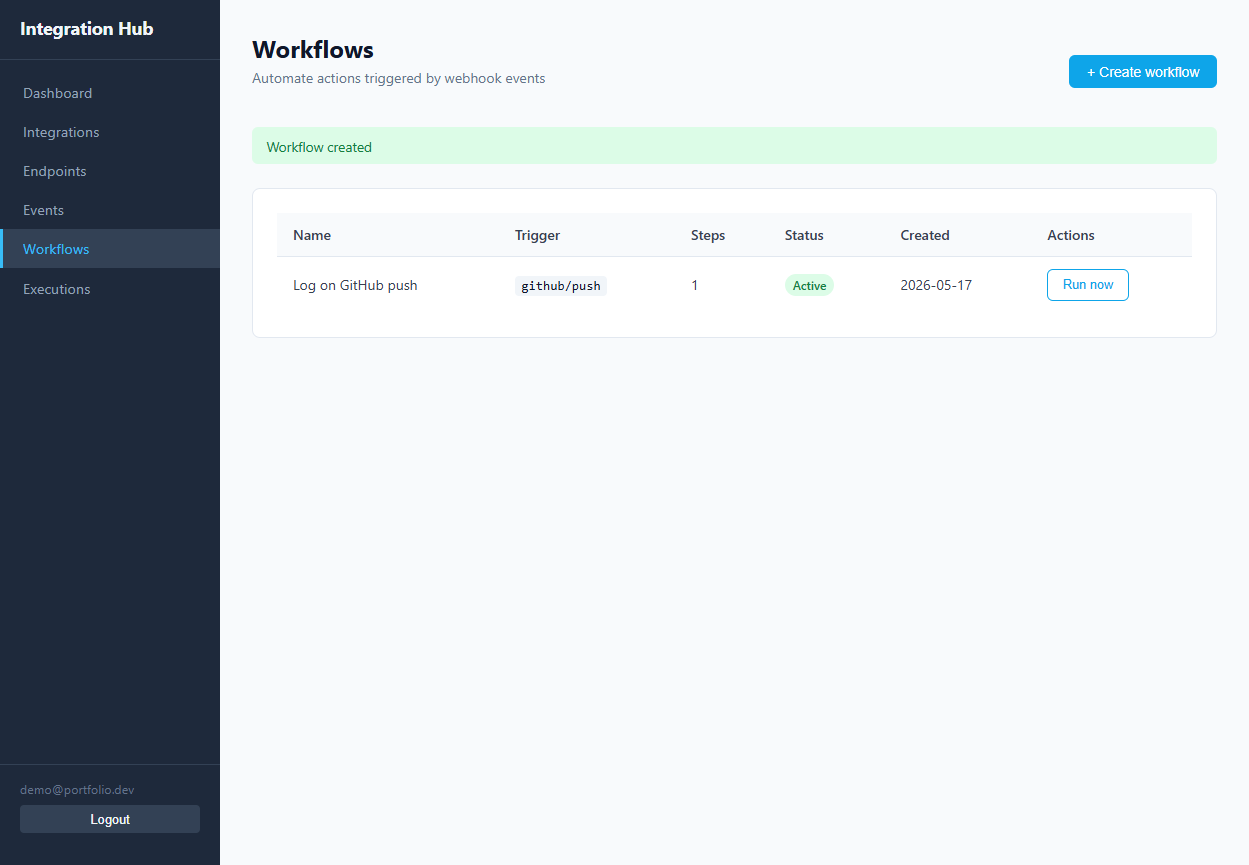
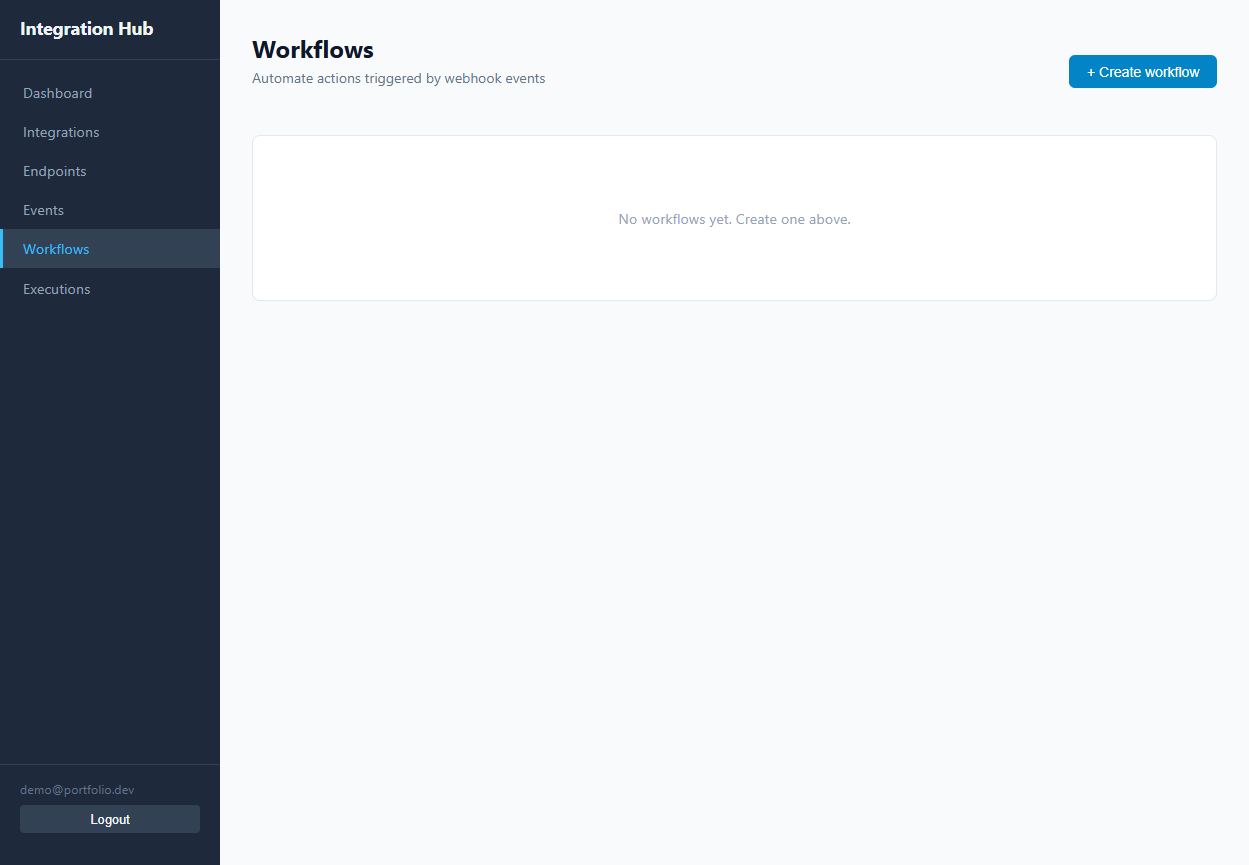
docs: align deployment and portfolio notes

diff --git a/docs/DEPLOYMENT.md b/docs/DEPLOYMENT.md
@@ -6,9 +6,9 @@ This document describes how to deploy the Integration Hub backend and frontend t
 
 | Component | Recommended target |
 |---|---|
-| Backend (NestJS) | Railway, Render, or Fly.io |
-| Frontend (Angular) | Vercel or Netlify |
-| Database (PostgreSQL) | Railway PostgreSQL, Supabase, or Neon |
+| Backend (NestJS) | Railway |
+| Frontend (Angular) | Vercel |
+| Database (PostgreSQL) | Railway PostgreSQL |
 
 ---
 
@@ -40,25 +40,10 @@ node -e "console.log(require('crypto').randomBytes(64).toString('hex'))"
 2. Add a PostgreSQL plugin - Railway sets `DATABASE_URL` automatically.
 3. Connect your GitHub repo and select `apps/backend` as the root.
 4. Set the environment variables above.
-5. Set the build command: `npm install && npx prisma migrate deploy && npm run build`
-6. Set the start command: `node dist/src/main`
-
-### Render
-
-1. Create a new Web Service.
-2. Set the root directory to `apps/backend`.
-3. Build command: `npm install && npx prisma migrate deploy && npm run build`
-4. Start command: `node dist/src/main`
-5. Add a PostgreSQL database and copy the connection string to `DATABASE_URL`.
-6. Set all other environment variables in the Render dashboard.
-
-### Fly.io
-
-1. Install the Fly CLI: `curl -L https://fly.io/install.sh | sh`
-2. From `apps/backend`: `fly launch`
-3. Set secrets: `fly secrets set JWT_SECRET=... JWT_REFRESH_SECRET=... CORS_ORIGIN=...`
-4. Attach a Postgres instance: `fly postgres attach`
-5. On each deploy run migrations: add `npx prisma migrate deploy` to your release command.
+5. Set the build command: `npm ci && npx prisma generate && npm run build`
+6. Set the pre-deploy command: `npx prisma migrate deploy`
+7. Set the start command: `npm run start:prod`
+8. Set the health check path: `/health`
 
 ---
 
@@ -66,37 +51,36 @@ node -e "console.log(require('crypto').randomBytes(64).toString('hex'))"
 
 ### Configuring the API URL
 
-Before building for production, set the API base URL in:
+The frontend uses Angular environment files to switch the API base URL between local and production builds.
+
+**Local development** (`http://localhost:3000`) is set in:
 
 ```
-apps/frontend/src/app/core/api.config.ts
+apps/frontend/src/environments/environment.ts
+```
+
+**Production** URL is set in:
+
+```
+apps/frontend/src/environments/environment.production.ts
 ```
 
 ```typescript
-export const API_BASE_URL = 'https://your-backend-domain.railway.app';
+export const environment = {
+  production: true,
+  apiBaseUrl: 'https://your-backend-domain.railway.app',
+};
 ```
 
-For Vercel/Netlify, you can also inject this at build time using a build-time environment variable and Angular's `fileReplacements` if needed. For MVP, editing `api.config.ts` is sufficient.
+Angular's `fileReplacements` in `angular.json` automatically swaps the file when you run `npm run build` (which uses the `production` configuration). You do not need to edit `api.config.ts` manually.
 
 ### Vercel
 
 1. Import the repository into Vercel.
 2. Set the root directory to `apps/frontend`.
-3. Build command: `npm run build`
+3. Build command: `npm ci && npm run build`
 4. Output directory: `dist/frontend/browser`
-5. Update `API_BASE_URL` in `api.config.ts` before deploying.
-
-### Netlify
-
-1. Connect the repository to Netlify.
-2. Set the base directory to `apps/frontend`.
-3. Build command: `npm run build`
-4. Publish directory: `dist/frontend/browser`
-5. Add a `apps/frontend/public/_redirects` file with:
-   ```
-   /*  /index.html  200
-   ```
-   This ensures Angular's client-side routing works correctly.
+5. Set the production API URL in `apps/frontend/src/environments/environment.production.ts` after the Railway backend URL exists.
 
 ---
 

diff --git a/README.md b/README.md
@@ -16,7 +16,7 @@ Built as a portfolio project demonstrating NestJS, Angular, Prisma, JWT auth, HM
 | Authentication | JWT access + refresh tokens, bcrypt hashing, Passport strategy |
 | Webhook security | HMAC-SHA256 signature verification using raw request body |
 | Data persistence | Prisma ORM with PostgreSQL, migrations, relational queries |
-| Async execution | In-memory queue with `setImmediate`, isolated WorkflowRunner |
+| Async execution | In-memory queue with `setImmediate`, isolated WorkflowRunner; `log` and `http_request` step types |
 | Multi-user isolation | All queries scoped by `userId`; cross-user access returns 404 |
 | API security | CORS, rate limiting via `@nestjs/throttler`, secret stripping from responses |
 | Frontend | Angular 21 standalone components, signals, lazy routes, HTTP interceptors |
@@ -74,6 +74,12 @@ GitHub Webhook -> POST /webhooks/github/:pathToken
 | Frontend | Angular 21 (standalone components, signals, lazy routes) |
 | Testing | Jest 30 (backend), Vitest 4 (frontend) |
 | CI | GitHub Actions |
+
+---
+
+## Live Demo
+
+> Public deployment is in progress (Railway + Vercel). Until then, follow the Quick Start below to run it locally in under 5 minutes.
 
 ---
 
@@ -243,8 +249,8 @@ cd apps/frontend && npm test -- --watch=false
 - JWT auth with access + refresh tokens
 - GitHub webhook receiver with HMAC verification
 - Webhook event history with filtering
-- Linear workflow execution engine
-- Real HTTP workflow step
+- Linear workflow execution engine with `log` and `http_request` step types
+- HTTP request step: real `fetch` with AbortController timeout, status logging, response preview
 - Execution logs per step
 - Angular dashboard with signals and lazy routes
 - CI pipeline with PostgreSQL service container